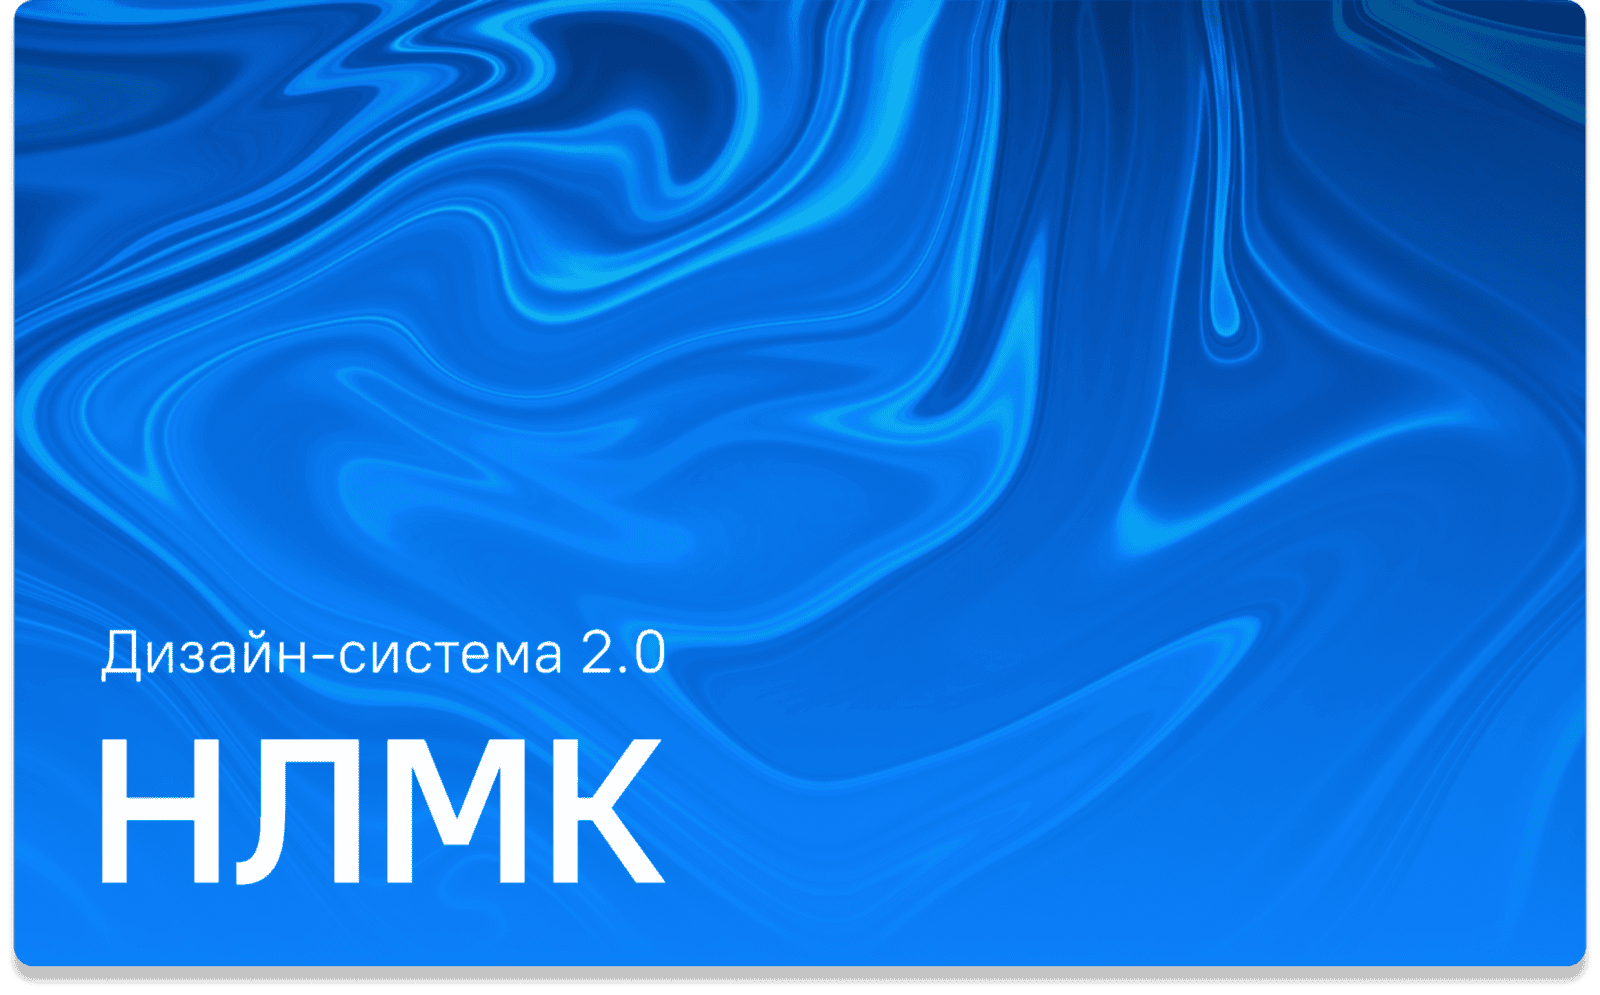
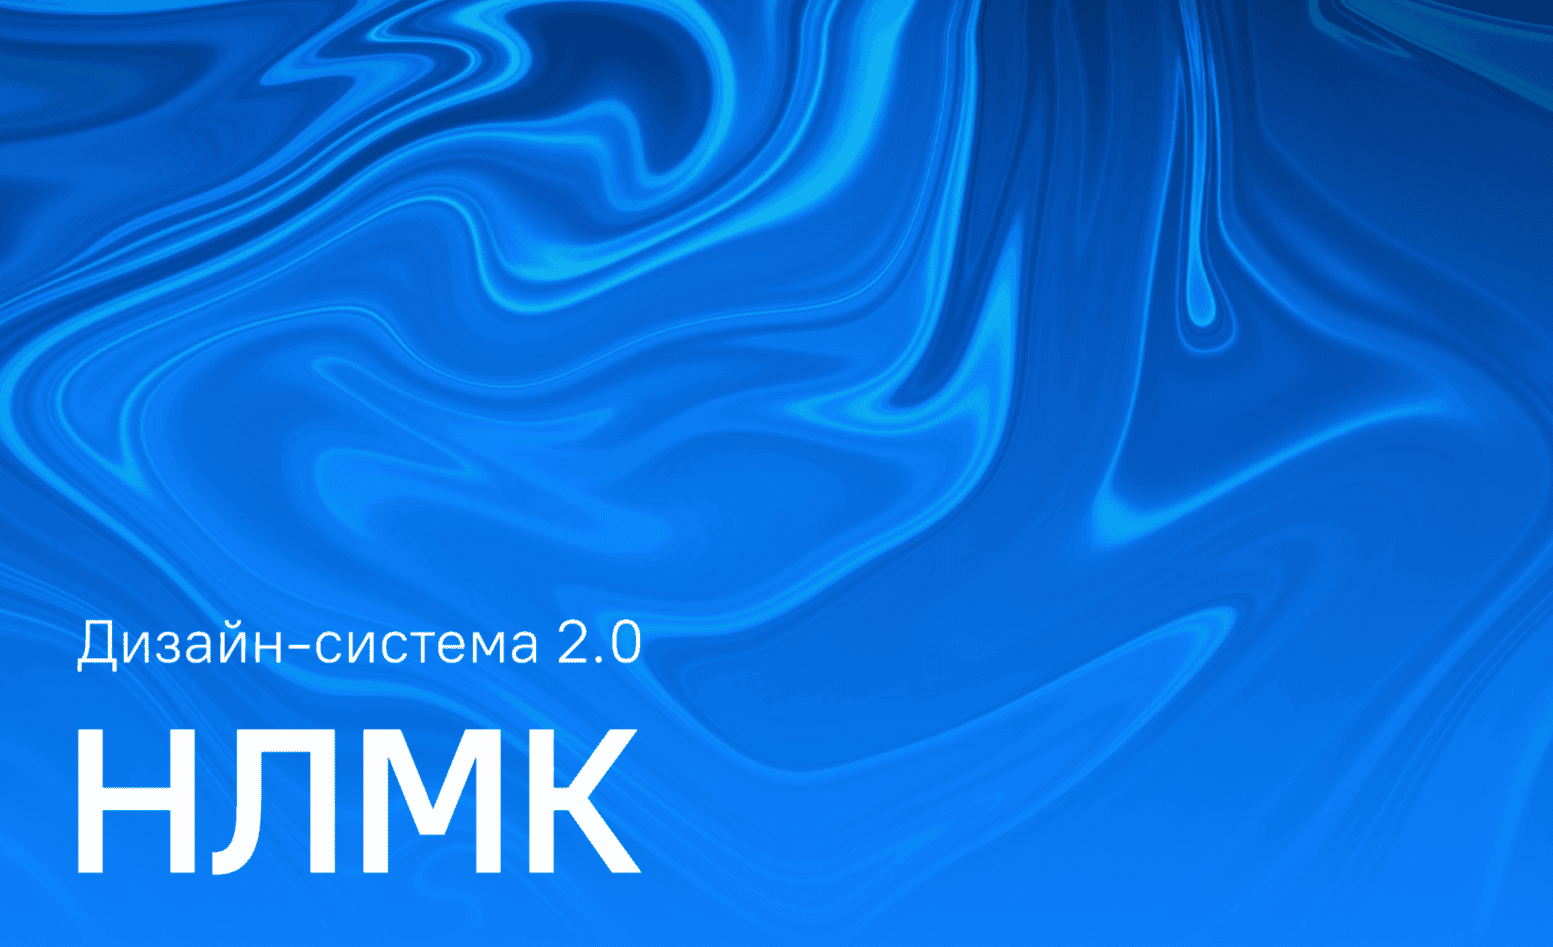
Кейс НЛМК: обрезать обложку

diff --git a/projects/nlmk/index.html b/projects/nlmk/index.html
@@ -319,7 +319,7 @@ figure{margin:0}
       <div><span class="mono">Роль</span>Дизайнер и создатель дизайн-системы</div>
       <div><span class="mono">Сайт</span><a href="https://ds.nlmk.com">ds.nlmk.com</a></div>
     </div>
-    <figure class="ccover"><img src="/assets/nlmk/Cover.png" alt="Витрина компонентов дизайн-системы НЛМК в Figma" fetchpriority="high" width="1680" height="1045"></figure>
+    <figure class="ccover"><img src="/assets/nlmk/Cover.png" alt="Витрина компонентов дизайн-системы НЛМК в Figma" fetchpriority="high" width="1553" height="947"></figure>
     <div class="chap"><h2>Контекст</h2><p>Пришёл в группу НЛМК, чтобы создать дизайн-систему. Внутренние продукты строились на перекрашенном Material UI.</p></div>
     <div class="chap"><h2>Задача</h2><p>Отказаться от перекрашенного Material UI и перейти на собственное решение.</p></div>
     <div class="chap wide"><h2>Подход</h2><div>
